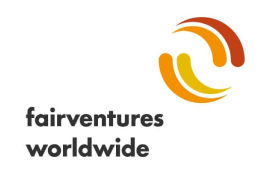
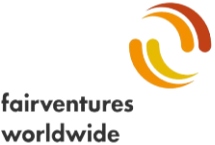
edited  section sponsors

Changed region(s): [[0.0, 0.6069, 0.6419, 0.9931], [0.586, 0.0, 1.0, 0.6345]]

diff --git a/styles/donation.css b/styles/donation.css
@@ -79,6 +79,9 @@
     margin-top: auto;
     margin-bottom: auto;
 }
+.section-sponsors .row{
+    padding-right: 1rem;
+}
 .section-sponsors .container img{
     max-width: 100%;
 }
@@ -174,8 +177,11 @@
     .section-sponsors .container>.row>div{
         padding-left: 0;
     }
-    .section-sponsors .container>.row:last-child{
-        padding-right: 1rem;
+    .section-sponsors .container> .row>div{
+        padding-left: 3%;
+    }
+    .section-sponsors .container>.row div:last-child{
+        padding-right: .5%;
     }
     .section-hero{
         background-image: 
@@ -196,5 +202,8 @@
     .hero-image-container figure img:last-child{
         bottom:-11rem;
         width:45%;
+    }
+    .section-sponsors .row div:last-child{
+        padding-top: 1%;
     }
 }
